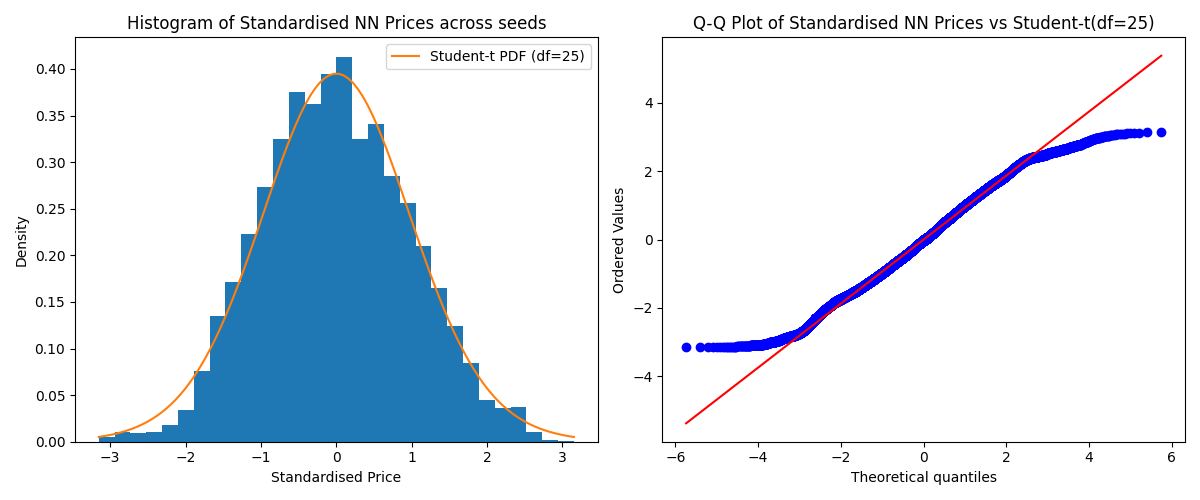
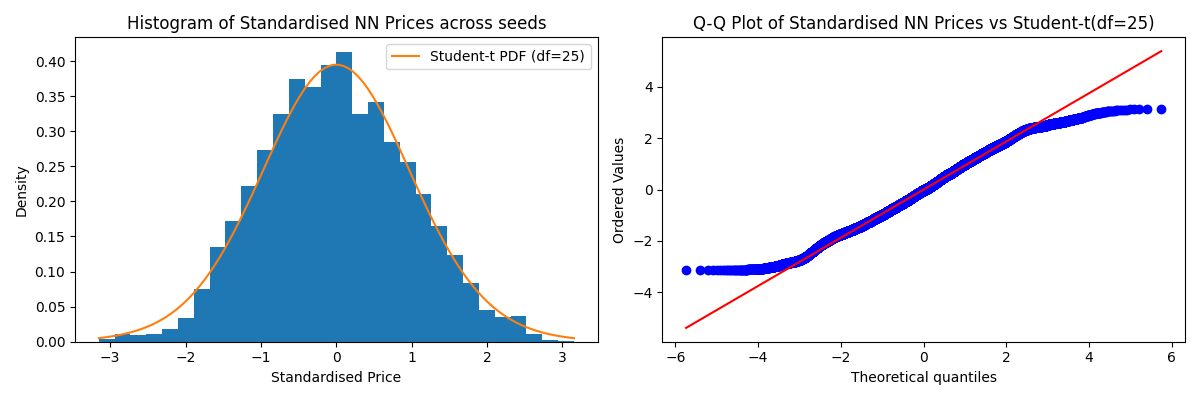
bs free boundary writeup

diff --git a/writeup/chapters/black_scholes.tex b/writeup/chapters/black_scholes.tex
@@ -516,8 +516,24 @@ We can also zoom in on the most sensitive point of $(t, S) = (0, K)$ and evaluat
     \label{tab:bs_pinn_atm_price}
 \end{table}
 
+\subsection{Multi-dimensional PINN}
 
 \subsection{Free boundary}
+
+For the one-dimensional free boundary, we will first evaluate the free boundary from the tree benchmark. Here, the continuation values are extracted through a small modification to the tree algorithm, where we compute the price of the Bermudan option with the same parameters with possibility of exercise at every time step except for at $t=0$, effectively serving as a continuation value of the American option at $t=0$. This continuation value is compared with the intrinsic value (the payoff) like we introduced in equation (\ref{eq:free_boundary}) in the mathematical background. The left figure in Figure \ref{fig:bs_continuation_probs} shows the continuation probabilities across different $(t, S)$ pairs, and here we use hard classification as binomial tree pricing is deterministic.
+
+We can see that the free boundary is correctly captured at glance, where we exercise the option when the asset price is sufficiently low, whose threshold increases as we get closer to maturity, consistent with the intuition that the option is losing time value.
+
+We now evaluate the free boundary from the PINN. The central figure in Figure \ref{fig:bs_continuation_probs} shows the continuation probabilities across different $(t, S)$ pairs using the sigmoid distribution as described in equation (\ref{eq:continuation_probability_sigmoid}). We can see that the shape of the free boundary is similar to the tree benchmark, and with soft classification the lowest probability is around $0.4$, which is not unintuitive as in the exercise region, the continuation value is theoretically equal to the payoff, and hence we should be indifferent between exercising and continuing.
+
+\begin{figure}[ht!]
+    \centering
+    \includegraphics[width=\textwidth]{../plots/black_scholes/bs_continuation_probs.png}
+    \caption{Estimated continuation probabilities from PINN for the American put option}
+    \label{fig:bs_continuation_probs}
+\end{figure}
+
+To use the Gaussian method, we will first evaluate its validity by plotting the distribution of the standardised price estimates across all seeds in Figure \ref{fig:nn_price_distribution}, noting that as the variance is unknown and we use the sample variance, the standardised price estimates would follow a t-distribution with $n-1$ degrees of freedom where $n$ is the number of seeds.
 
 \begin{figure}[ht!]
     \centering
@@ -526,9 +542,6 @@ We can also zoom in on the most sensitive point of $(t, S) = (0, K)$ and evaluat
     \label{fig:nn_price_distribution}
 \end{figure}
 
-\begin{figure}[ht!]
-    \centering
-    \includegraphics[width=\textwidth]{../plots/black_scholes/nn_continuation_probs_sigmoid.png}
-    \caption{Free boundary for PINN}
-    \label{fig:free_boundary_pinn_1d}
-\end{figure}
+By looking at the histogram and the Q-Q plot, we can see that the distribution of the standardised price estimates is reasonably close to a t-distribution, with the exception of the tails. Nevertheless, we will proceed with evaluating the free boundary using the Gaussian method, and the right figure in Figure \ref{fig:bs_continuation_probs} shows the continuation probabilities across different $(t, S)$ pairs. 
+
+We can see that the shape roughly corresponds to the free boundaries we have seen before, but this is a much noisier estimate, which puts into question the assumptions we have made. We are essentially assuming that the price estimates of the PINN are unbiased and normally distributed around the true price, which is quite strong and not true in practice, as we have already observed in Figure \ref{fig:bs_pinn_price_comparison} where we have zones where the PINN price is systematically above or below the tree price, suggesting bias.

diff --git a/writeup/chapters/mathematical_background.tex b/writeup/chapters/mathematical_background.tex
@@ -122,6 +122,7 @@ which is achieved by an optimal stopping time $\tau^\star$ taking the form
 for some optimal exercise boundary $b^\star(\tau)$ \cite{glasserman2004monte}. This is illustrated in Figure \ref{fig:free_boundary}, where we simulate one realisation of the asset price assuming a geometric Brownian motion and plot it against the exercise boundary. The illustration is based on the binomial tree solution on the American put option, which has the boundary
 \begin{equation}
     b^\star(\tau) = \sup\{S : c(\tau, S) = g(S)\}
+\label{eq:free_boundary}
 \end{equation}
 which is found using binary search here, and $c(t, S)$ is the continuation value of the option with payoff $g(S)$.
 
@@ -146,6 +147,7 @@ to smoothly transition the continuation probability from $0$ to $1$ as the value
 \begin{equation}
     P_\text{cont}(d) = s\left(\frac d \tau\right),
     \qquad d := \frac{c(t, S) - g(S)}{g(S)}
+\label{eq:continuation_probability_sigmoid}
 \end{equation}
 
 To tune the softness parameter, we can define a threshold $I \in (0.5, 1)$ such that we want the continuation probability to be $I$ at some relative difference $\epsilon > 0$, i.e. $P_\text{cont}(\epsilon) = I$, which we could solve with some simple algebraic manipulation to get